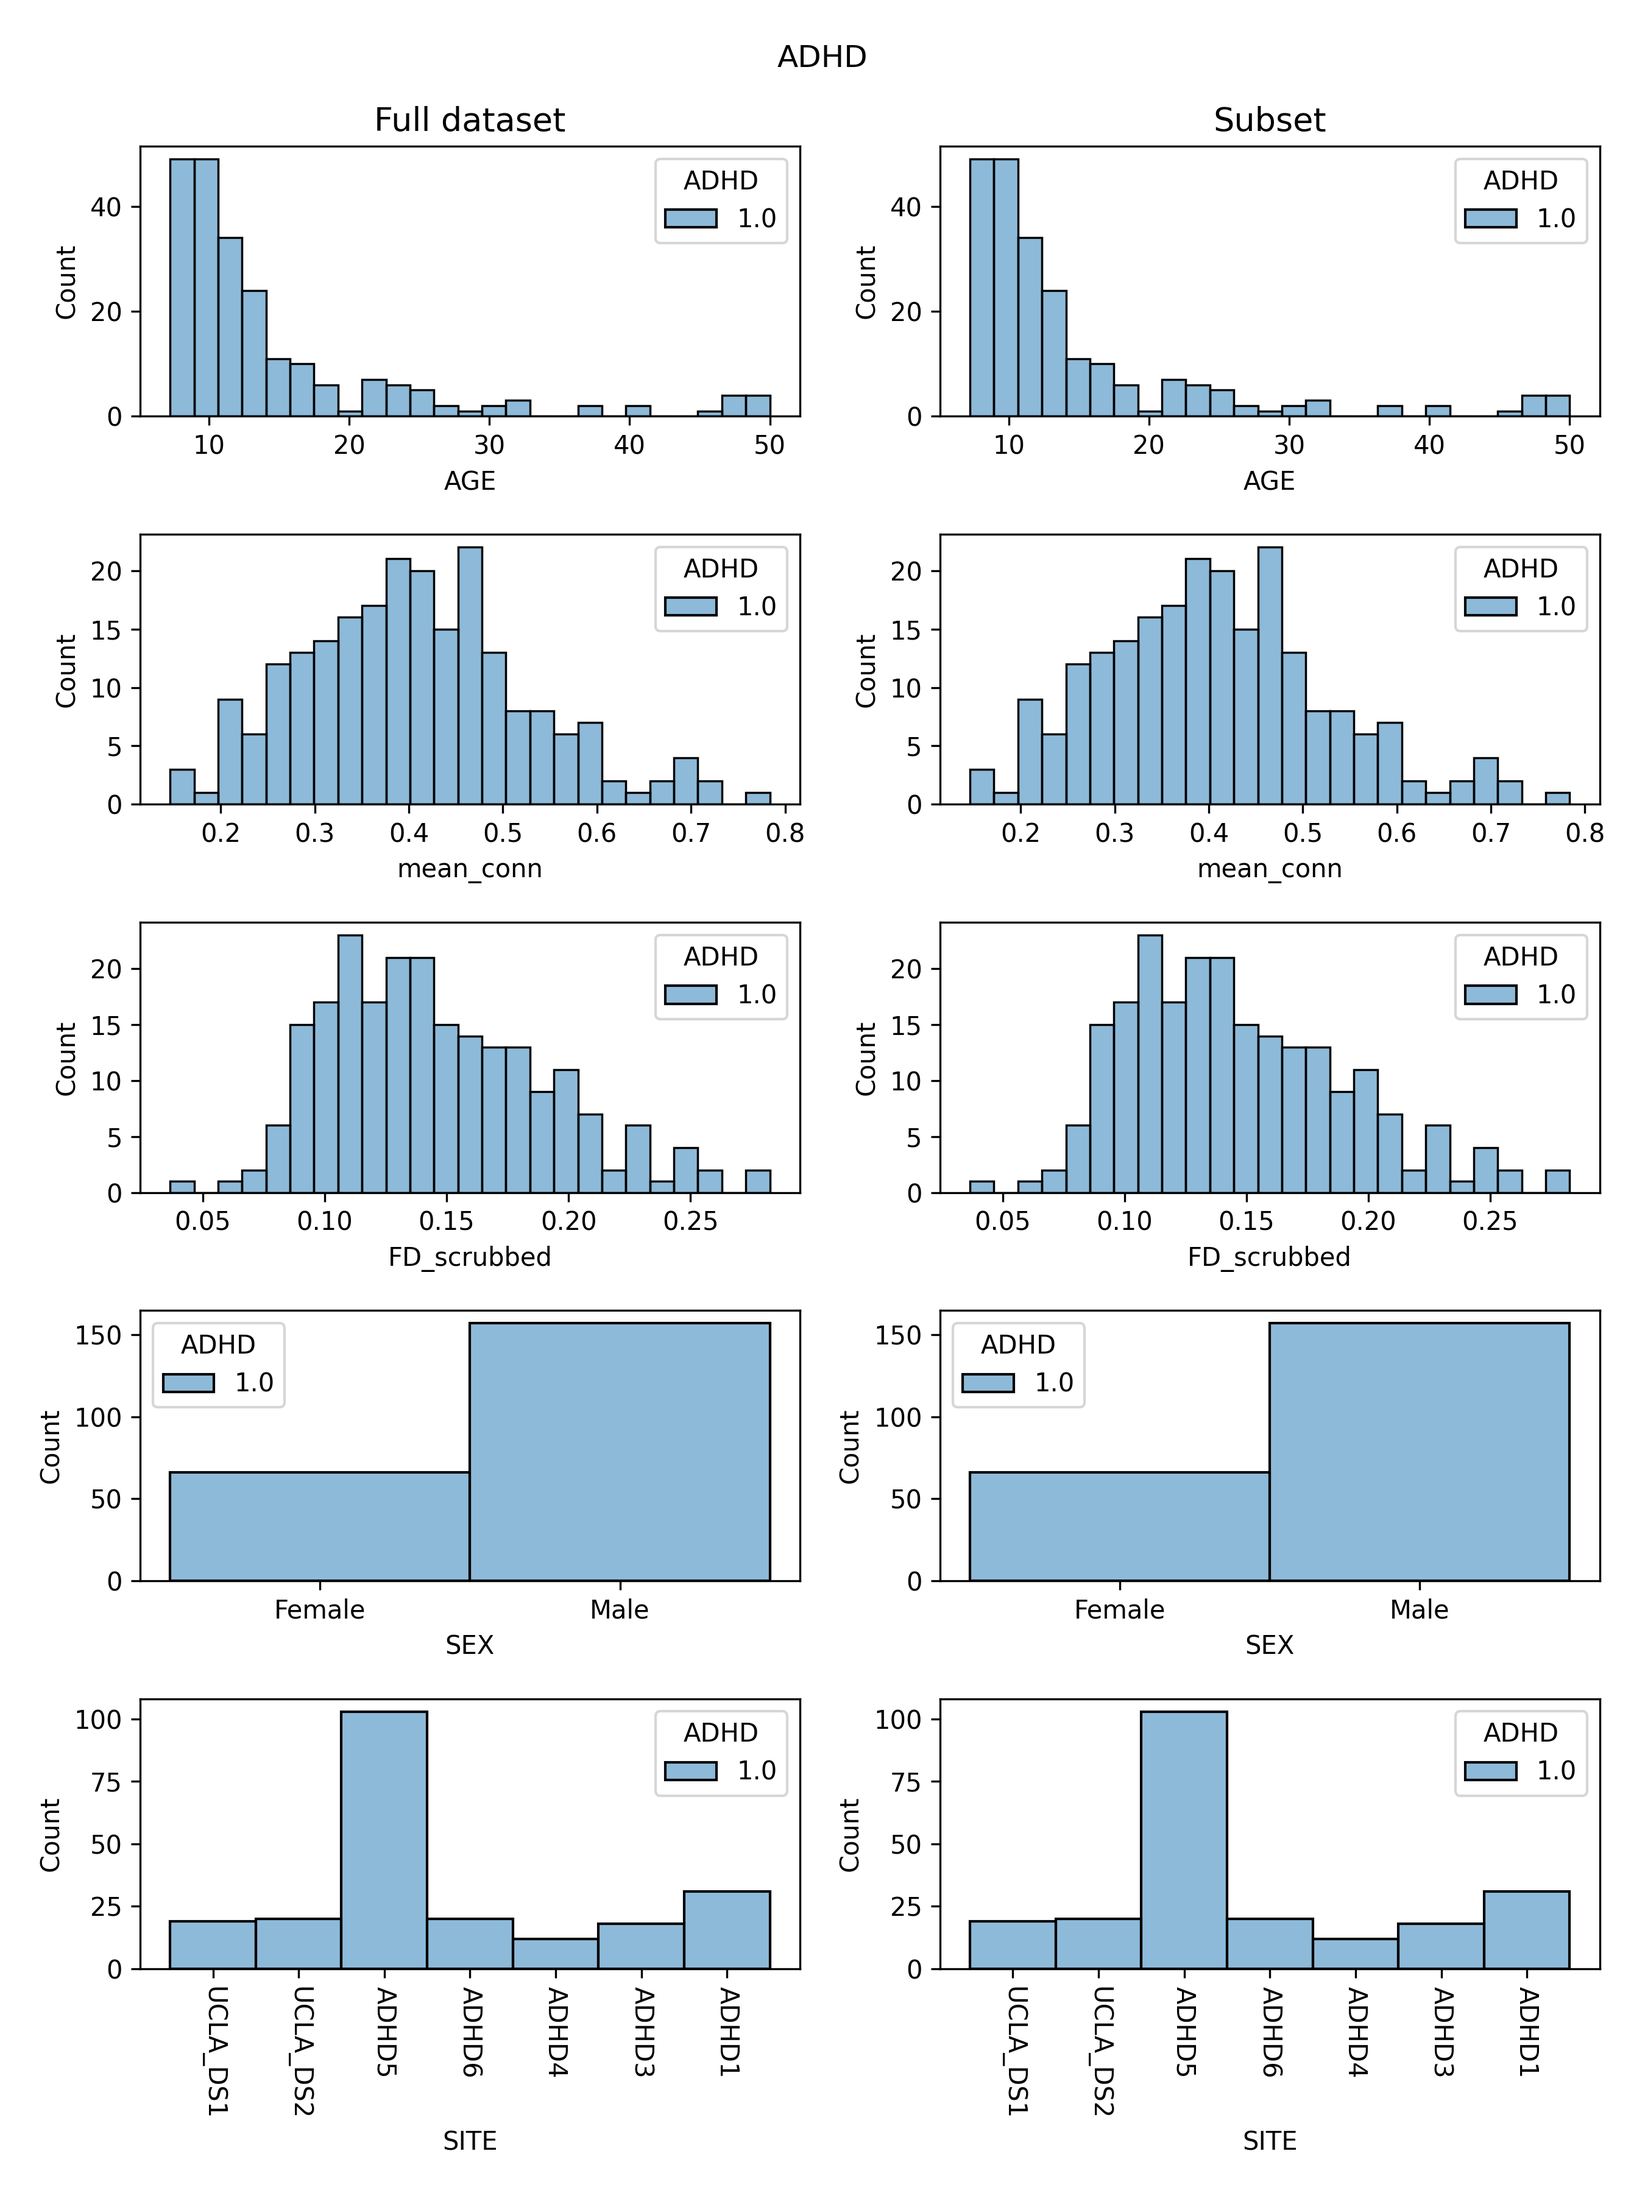
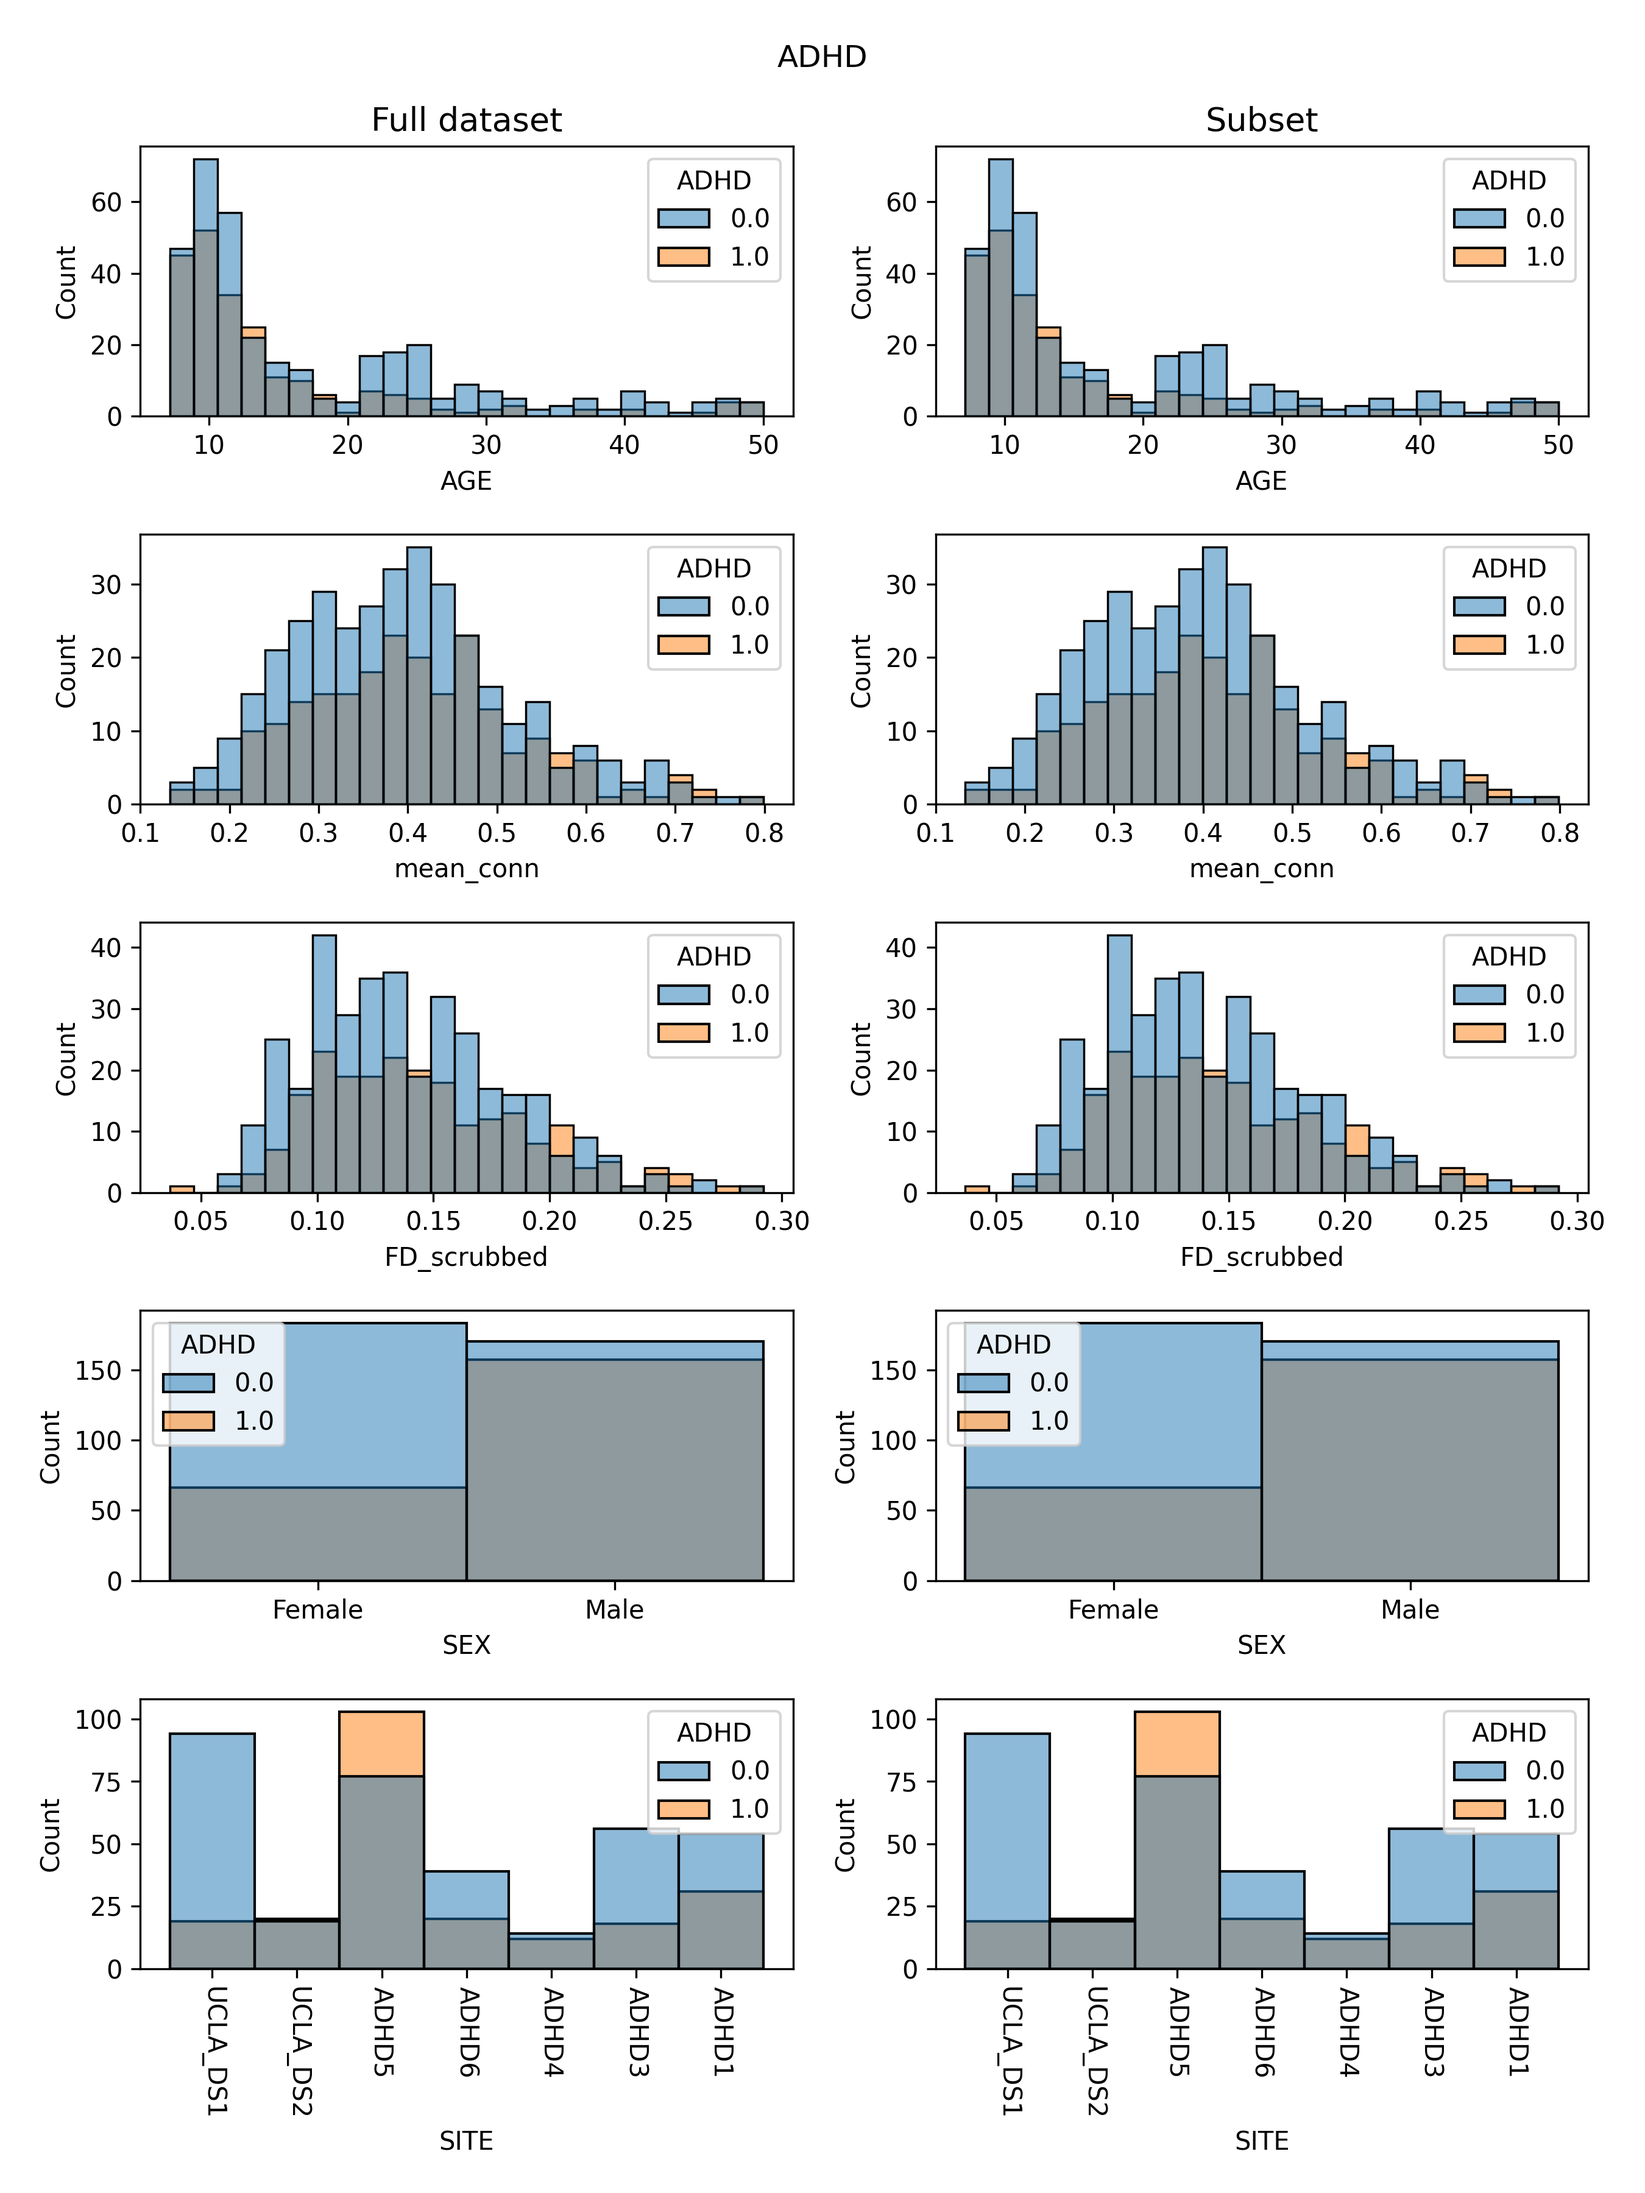
fixed bug & corresponding figure

diff --git a/datasets/gen_dataset_figures.py b/datasets/gen_dataset_figures.py
@@ -42,7 +42,7 @@ out_p = './figures/full_vs_subset'
 for case in cases:
     ids = sel_ids[case]
     
-    control = 'CON_IPC' if case in ['ASD','SZ','BIP'] else 'non_carriers'
+    control = 'CON_IPC' if case in ['ASD','SZ','BIP','ADHD'] else 'non_carriers'
     
     sites = pheno[pheno[case]==1]['SITE'].unique()
     df = pheno[(pheno['SITE'].isin(sites))
